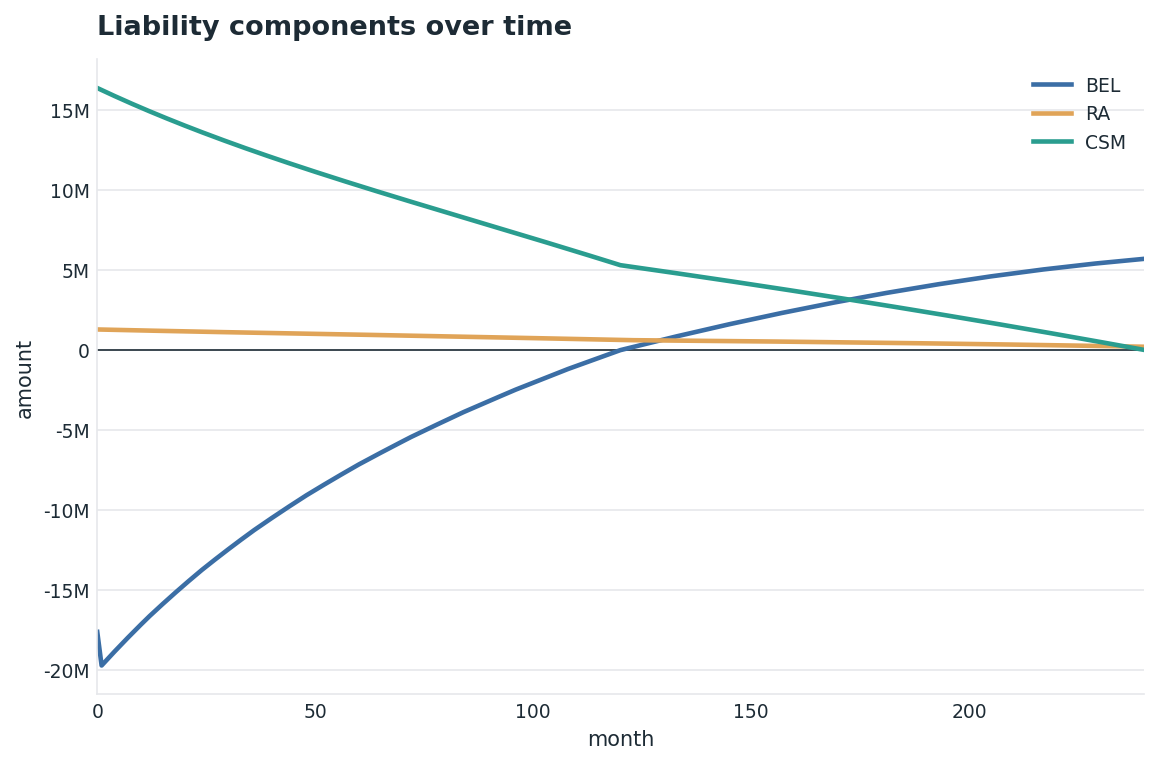
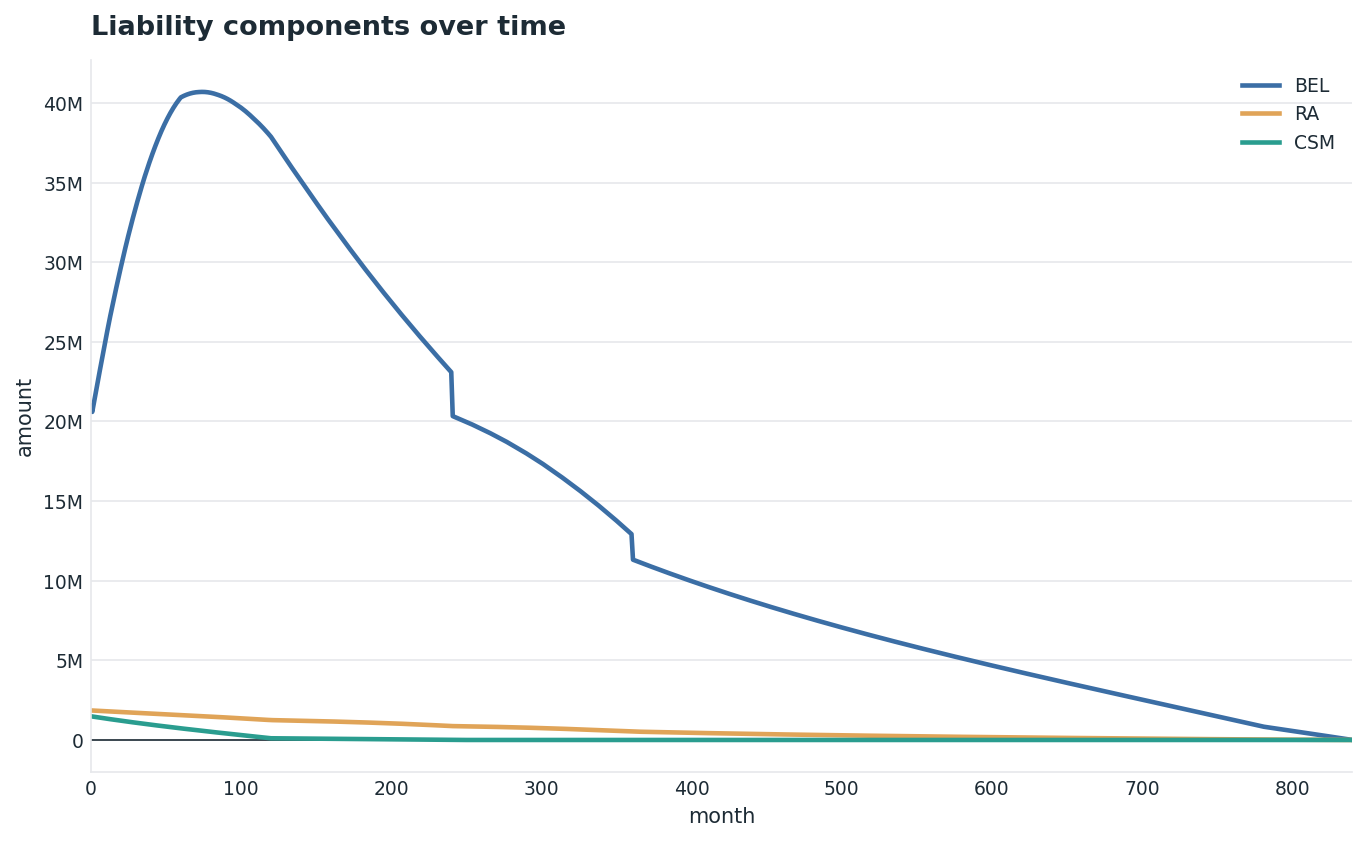
docs: regenerate chapter charts from the profitable FC segment
12-in-practice-2 now walks through the TERM_LIFE_A/FC segment so the CSM
analysis-of-change waterfall is non-trivial; point generate_images.py at
the same segment and regenerate the liability-trajectory and
analysis-of-change charts to match.

diff --git a/docs/generate_images.py b/docs/generate_images.py
@@ -31,7 +31,7 @@ def _save(ax, name: str) -> None:
 
 def main() -> None:
     model_points = fcf.samples.model_points()
-    assumptions = fcf.samples.basis()[("TERM_LIFE_A", "GA")]
+    assumptions = fcf.samples.basis()[("TERM_LIFE_A", "FC")]  # profitable: live CSM to plot
     m = fcf.gmm.measure(model_points, assumptions)
 
     # 10.1 -- BEL/RA/CSM trajectories over the contract's life